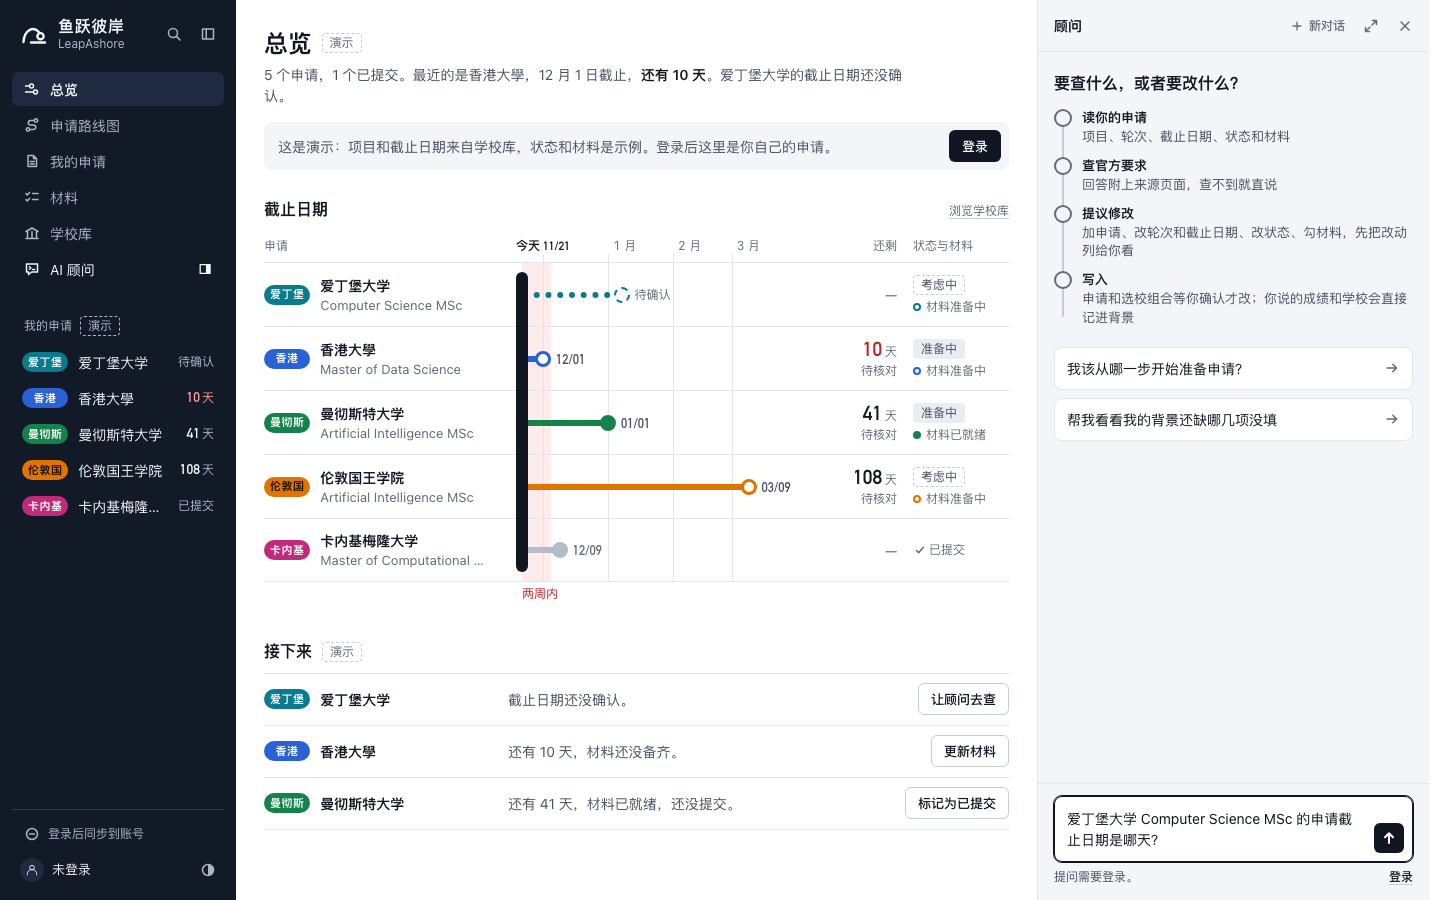
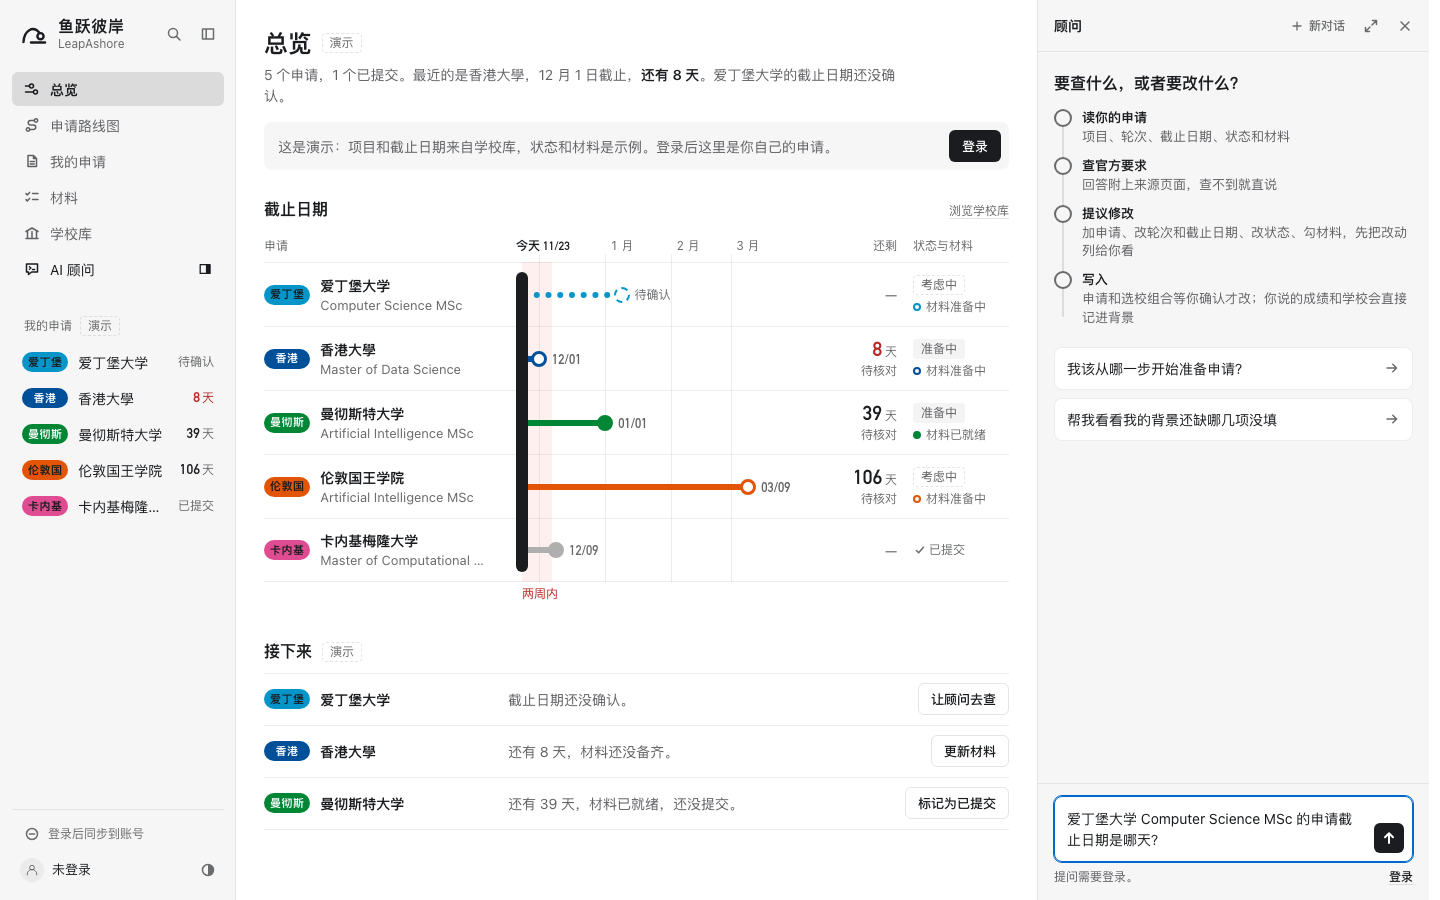
docs(readme): retake the screenshots in the Codex palette (#123)

diff --git a/README.md b/README.md
@@ -43,7 +43,7 @@ Sign in with a code sent to your email, then add an application or save a progra
 
 ### See the workspace
 
-Taken on 2026-11-21 from the live site while signed out. A signed-out visitor sees a labelled demo: the programs, deadlines and material requirements come from the school library as served; the statuses and ticks are examples.
+Taken on 2026-11-23 from the live site while signed out, after the palette change (#122). A signed-out visitor sees a labelled demo: the programs, deadlines and material requirements come from the school library as served; the statuses and ticks are examples.
 
 | Advisor dock | Application roadmap |
 | --- | --- |
